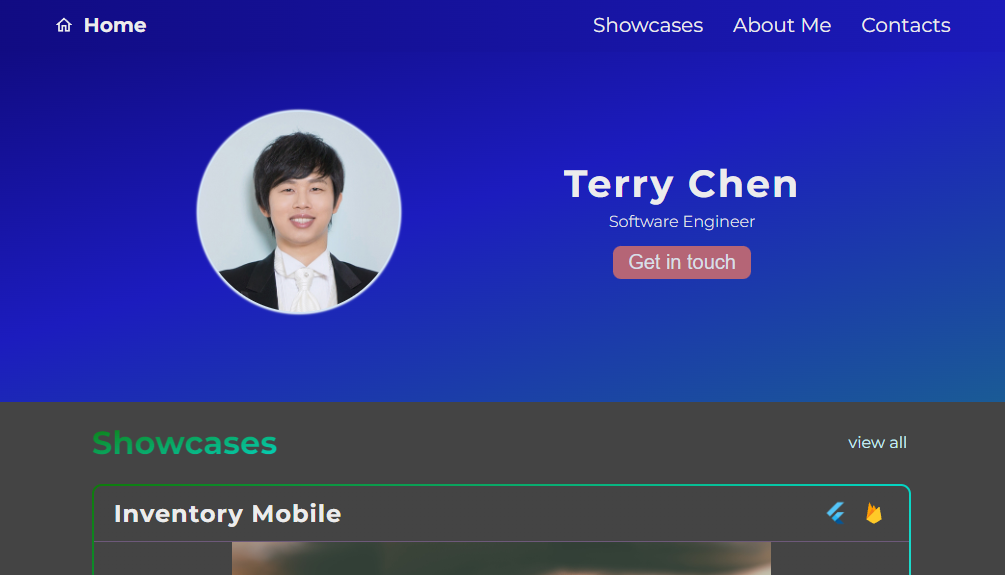
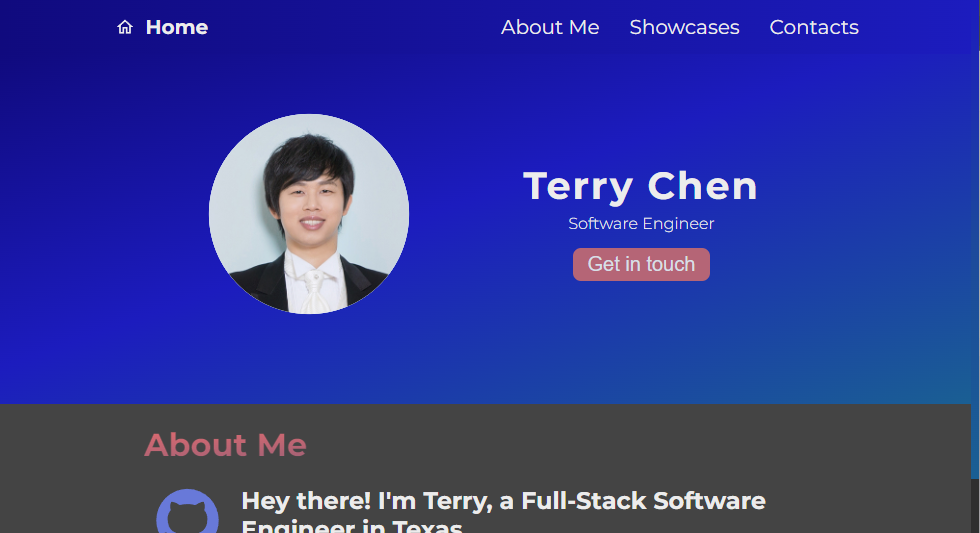
implement sliding for image area

diff --git a/src/components/NavBar.tsx b/src/components/NavBar.tsx
@@ -26,14 +26,14 @@ const NavBar = ({ scrollToTop, toggleNavPanelDisplay, showNavPanel } : Props) =>
                 {
                     !showNavPanel &&
                     <>
-                        <Link to="showcase" spy={true} smooth={true} offset={-80} duration={500} className="nav-item">
-                            <motion.div variants={ navBarTitleAnimation } whileHover="hover">
-                                    Showcases
-                            </motion.div>
-                        </Link>
                         <Link to="about" spy={true} smooth={true} offset={-80} duration={500} className="nav-item">
                             <motion.div variants={ navBarTitleAnimation } whileHover="hover">
                                 About Me
+                            </motion.div>
+                        </Link>
+                        <Link to="showcase" spy={true} smooth={true} offset={-80} duration={500} className="nav-item">
+                            <motion.div variants={ navBarTitleAnimation } whileHover="hover">
+                                    Showcases
                             </motion.div>
                         </Link>
                         <Link to="contacts" spy={true} smooth={true} offset={0} duration={500} className="nav-item">
@@ -54,13 +54,13 @@ const NavBar = ({ scrollToTop, toggleNavPanelDisplay, showNavPanel } : Props) =>
                         <motion.div variants={ navBarMenuAnimation } initial="begin" animate="enter" exit="exit">
                             <menu>
                                 <div className="nav-item" onClick={ scrollToTop }>Home</div>
-                                <Link to="showcase" spy={ true } smooth={ true } offset={ -80 } 
-                                    duration={ 500 } className="nav-item">
-                                    Showcases
-                                </Link>
                                 <Link to="about" spy={ true } smooth={ true } offset={ -80 } 
                                     duration={ 500 } className="nav-item">
                                     About Me
+                                </Link>
+                                <Link to="showcase" spy={ true } smooth={ true } offset={ -80 } 
+                                    duration={ 500 } className="nav-item">
+                                    Showcases
                                 </Link>
                                 <Link to="contacts" spy={ true } smooth={ true } offset={ -80 } 
                                     duration={ 500 } className="nav-item">

diff --git a/src/components/About.tsx b/src/components/About.tsx
@@ -9,15 +9,15 @@ const About = () => {
                     <img src="img/developer.svg" alt="developer" />
                     <div>
                         <h2>
-                            Hey there! I'm Terry, a Mobile Software Engineer in Texas.
+                            Hey there! I'm Terry, a Full-Stack Software Engineer in Texas.
                         </h2>
                         <p style={{ margin: "0, auto" }}>
-                            I was born and raised in Shenzhen, China, and am currently based in Houston, Texas. My main expertise lies in multi-platform mobile application development, as well as web (React) and backend API developments. There are only limited works showcased in this website, but if you are impressed by what I have done, don't hesitate to contact me!
+                            I was born and raised in Shenzhen, China, and am currently based in Houston, Texas. My main expertise lies in multi-platform mobile application development. I also do web applications and backend API developments. If you are impressed by what I showcase here, don't hesitate to contact me!
                         </p>
                     </div>
                 </li>
                 <li>
-                    <img src="img/corporate.svg" alt="corporate" />
+                    <img src="img/corporate.svg" alt="professional" />
                     <div>
                         <h2>Professional Experiences</h2>
                         <h4>
@@ -32,7 +32,7 @@ const About = () => {
                             <span>(2013 January - 2022 April)</span>
                         </h4>
                         <p>
-                            I worked as IT Analyst, and was mainly developing and maintaining several mobile applications using Microsoft technologies such as <em>Xamarin.Forms, .NET MAUI, and Azure Cloud Services (including App Services</em>, KeyVault, Cosmos Database, Azure Functions, etc.). <br/>
+                            I worked as IT Analyst, and was mainly developing and maintaining several mobile applications using Microsoft technologies such as <em>Xamarin.Forms, .NET MAUI, and Azure Cloud Services (including App Services, KeyVault, Cosmos Database, Azure SQL, Azure Functions</em>, etc.). <br/>
                             Besides mobile applications, I also developed integration services with Enterprise Assets Management system (IBM Maximo), as well as designed/developed SQL Server Reporting Services (SSRS) reports.
                         </p>
                     </div>

diff --git a/src/data/Projects.ts b/src/data/Projects.ts
@@ -5,6 +5,7 @@ export default interface Project {
     website : string | null,
     github : string,
     imageFolder : string | null,
+    imageCount : number,
     tags : string[],
     highlight : boolean,
 }
@@ -21,6 +22,7 @@ const projects : Project[] = [
         website: null,
         github: "https://github.com/azthrun/CHaN/tree/main/flutter/inventory",
         imageFolder: "img/inventory",
+        imageCount: 1,
         tags: ["Flutter", "Firebase"],
         highlight: true,
     },
@@ -31,6 +33,7 @@ const projects : Project[] = [
         website: "https://dreambig-todos.web.app",
         github: "https://github.com/azthrun/dreambig-todos",
         imageFolder: "img/todo",
+        imageCount: 2,
         tags: ["React", "Firebase", "TypeScript"],
         highlight: true,
     },
@@ -41,6 +44,7 @@ const projects : Project[] = [
         website: null,
         github: "https://github.com/azthrun/learning-web3",
         imageFolder: "img/calendar",
+        imageCount: 6,
         tags: ["Web3", "React", "Solidity"],
         highlight: true,
     },
@@ -51,6 +55,7 @@ const projects : Project[] = [
         website: null,
         github: "https://github.com/azthrun/CHaN/tree/main/dotnet/Inventory.Api",
         imageFolder: null,
+        imageCount: 0,
         tags: [".NET", "Azure", "Cosmos"],
         highlight: false,
     },
@@ -61,6 +66,7 @@ const projects : Project[] = [
         website: "https://dreambig-portfolios.web.app/",
         github: "https://github.com/azthrun/dreambig-portfolios",
         imageFolder: "img/portfolio",
+        imageCount: 1,
         tags: ["React", "TypeScript"],
         highlight: false,
     },

diff --git a/src/components/ProjectCard.tsx b/src/components/ProjectCard.tsx
@@ -2,7 +2,27 @@ import Project from "../data/Projects";
 import TechIcon from "./TechIcon";
 import "../styles/ProjectCard.css";
 
+interface Images {
+    path : string;
+    alt : string;
+    index : number;
+}
+
 const ProjectCard = ({ project } : { project : Project}) => {
+    const images : Images[] = [];
+    for (let i = 0; i < project.imageCount; i++) {
+        images.push({
+            path: `${project.imageFolder}/${i + 1}.png`,
+            alt: `${project.title} image ${i + 1}`,
+            index: i,
+        });
+    }
+
+    let mediaClassName = "project-card-media";
+    if (project.imageCount > 1) {
+        mediaClassName += " multi";
+    }
+
     return (
         <div className="project-card">
             <div className="project-card-header">
@@ -18,8 +38,12 @@ const ProjectCard = ({ project } : { project : Project}) => {
                     project.imageFolder &&
                     <>
                         <div className="project-card-layout gallery">  
-                            <div className="project-card-media">
-                                <img src={ `${project.imageFolder}/1.png` } alt={ project.title } />
+                            <div className={ mediaClassName }>
+                                {
+                                    images.map(i => (
+                                        <img src={ i.path } alt={ i.alt } key={ i.index } />
+                                    ))
+                                }
                             </div>
                         </div>
                         <div className="project-card-layout content">

diff --git a/src/styles/ProjectCard.css b/src/styles/ProjectCard.css
@@ -36,10 +36,6 @@
     margin-left: 8px;
 }
 
-.project-card-media > img {
-    object-fit: contain;
-}
-
 .project-card-footer {
     display: flex;
     justify-content: flex-end;
@@ -87,9 +83,23 @@
     width: 50%;
 }
 
+.project-card-media {
+    display: flex;
+    width: 100%;
+}
+
 .project-card-media > img {
+    object-fit: contain;
     width: 100%;
     max-height: 400px;
+}
+
+.project-card-media.multi {
+    overflow-x: scroll;
+}
+
+.project-card-media.multi > img {
+    margin: 0 20px;
 }
 
 .project-card-layout.content {

diff --git a/src/pages/Home.tsx b/src/pages/Home.tsx
@@ -55,8 +55,8 @@ const Home = () => {
             </div>
             
             <div className="home-content">
-                <Showcase />
                 <About />
+                <Showcase />
             </div>
 
             <Footer />

diff --git a/src/index.css b/src/index.css
@@ -8,7 +8,7 @@ body {
 }
 
 ::-webkit-scrollbar {
-  width: 10px;
+  width: 8px;
 }
 
 ::-webkit-scrollbar-track {
